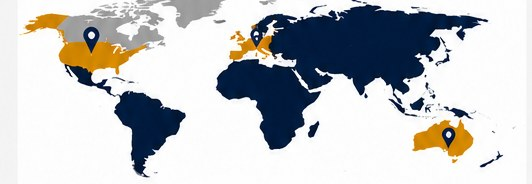
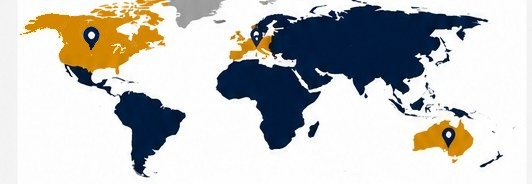
fix: client corrections, phase 1 (Correzioni A, C9, C13, D, E, G)
Content
- "A Catholic Christian global mission" everywhere (homepage, footer, About,
  Our Story); Faith value "Catholic Christian values"; Founder section
  "a global Catholic and Christian mission"
- Head office written uniformly as "Via delle Milizie 34, 00192 Rome, Italy",
  including footer, legal pages, FAQ and former "Vatican City / Rome" mentions
- Contact: Rome head office and email only; Australian PO Box, +61 numbers and
  AEST hours removed (hours/phone awaiting confirmation)
- Homepage map: Canada coloured like the other mission countries
- Copyright fixed to "© 2026 IICC Mission. All Rights Reserved."

Layout
- GiHero (11 Get Involved / Donate pages): logo and text in one block aligned
  to the container, so the logo no longer overlaps titles on wide screens;
  same fix for the Bakery of Hope hero
- FAQ answers use the full width (details no longer a 2-column grid)
- Pope Leo XIV / Pope Francis: quote no longer squeezes and covers the photo
- Wide screens: --gutter variable keeps text panels readable at 1440-2560px
  (Our Vision, Cardinal Pell, Founder Messages, fade photo bands)
- Advocacy: quote card no longer spills into the next section
- Dense card grids reflow to 3 per row when cards get too narrow
  (container query in ResCards, SupportLanding, PhotoCards, Ministry bands)
- Mobile: "OR" badge on the panel seam, single-column Hope Companion cards,
  tagline overlap on faith leader pages

QA
[…]

Changed region(s): [[0.0301, 0.0, 0.3308, 0.2989], [0.4812, 0.2174, 0.5113, 0.2989], [0.812, 0.7065, 0.8421, 0.7337]]

diff --git a/src/styles/global.css b/src/styles/global.css
@@ -63,6 +63,10 @@
    LAYOUT & SECTIONS
 ═══════════════════════════════════════════════ */
 @layer components {
+  /* side gutter outside the 1200px container on wide screens: added to the width of panels that
+     align their text with the container via padding-left, so the text keeps its intended width */
+  :root { --gutter: max(0px, calc((100vw - 1200px) / 2)); }
+
 
   /* Container */
   .wrap {
@@ -505,7 +509,7 @@
   .photo-band--fade { background: var(--color-navy); min-height: 320px; }
   .photo-band--fade .photo-band__bg { inset: 0 0 0 28%; }
   .photo-band--fade .photo-band__text {
-    width: min(560px, 46%);
+    width: calc(min(560px, 46%) + var(--gutter));
     background: linear-gradient(90deg, var(--color-navy) 72%, rgba(27,39,81,0));
     padding: 3.25rem 3rem 2.5rem max(1.5rem, calc((100vw - 1200px) / 2 + 1.5rem));
   }
@@ -1328,5 +1332,31 @@
   @media (max-width: 640px) {
     /* form fields laid out on a 6-column grid: one field per row on phones */
     [style*="grid-column:span"] { grid-column: 1 / -1 !important; }
+  }
+  @media (max-width: 900px) {
+    /* "OR" badge between two stacked panels: sits on the seam instead of over the second panel's title */
+    .hc-or { row-gap: 0 !important; }
+    .hc-or__badge { position: relative !important; left: auto !important; top: auto !important; transform: none !important; order: 1; justify-self: center; margin: -1.6rem 0; z-index: 1; }
+    .hc-or > :nth-child(2) { order: 2; padding-left: 1.5rem !important; }
+  }
+  @media (max-width: 640px) {
+    .hc-cards { grid-template-columns: 1fr !important; }
+  }
+  @media (min-width: 901px) and (max-width: 1280px) {
+    /* long words in narrow card titles wrap with a hyphen instead of splitting silently */
+    main h3, main h4 { hyphens: auto; -webkit-hyphens: auto; }
+  }
+  /* Card grids with 5+ cards adapt to the width of their own column, not the screen:
+     below ~170px per card they reflow to 3 per row (2 on very narrow columns). */
+  .rc { container-type: inline-size; width: 100%; } /* explicit width: size containment would otherwise shrink it inside grids */
+  @container (max-width: 1020px) { .rc-dense[data-n="6"], .rc-dense[data-n="7"], .rc-dense[data-n="8"] { grid-template-columns: repeat(3, minmax(0, 1fr)) !important; } }
+  @container (max-width: 860px) { .rc-dense[data-n="5"] { grid-template-columns: repeat(3, minmax(0, 1fr)) !important; } }
+  @container (max-width: 520px) { .rc-dense[data-n] { grid-template-columns: repeat(2, minmax(0, 1fr)) !important; } }
+  @media (max-width: 1200px) {
+    .au-progs { grid-template-columns: 1fr !important; }
+  }
+  @media (min-width: 901px) and (max-width: 1100px) {
+    /* dense inline grids on small laptops / landscape tablets */
+    .m-mid3 { grid-template-columns: repeat(3, minmax(0, 1fr)) !important; }
   }
 }

diff --git a/README.md b/README.md
@@ -82,6 +82,8 @@ Note sulla corrispondenza con i mockup:
   - Molte griglie hanno colonne inline (`style="grid-template-columns:…"`). Su mobile si ricompongono grazie alle regole in fondo a `global.css`: classi `camp-grid`, `m-cta`, `m-band`, `m-tab2`, `hero-quote`, `hero-logo`, `side-bg`, più selettori sugli attributi `style`. Una nuova griglia inline deve usare una di queste classi.
   - Le regole condivise vanno dentro `@layer components`: una regola fuori dai layer sovrascrive tutto il layer, compresi i `max-width` dei loghi.
   - Gli stili scoped di Astro non raggiungono gli svg di `Icon` né il contenuto passato via slot: usare `:global(...)`.
+- **Schermi larghi (1440–2560px):** per allineare un testo al contenitore da 1200px si usa `padding-left: calc((100vw - 1200px) / 2 …)`. Se l'elemento ha una larghezza fissa o in percentuale, quel padding gli toglie spazio e oltre i 1440px il testo si schiaccia o il logo sconfina. Va sommata la variabile `--gutter` alla larghezza (`width: calc(min(560px, 46%) + var(--gutter))`), oppure logo e testo vanno messi in un unico blocco (vedi `GiHero`). Controllare sempre anche a 1920px.
+- **Griglie fitte di schede:** `ResCards` usa una container query (classe `.rc`) e passa a 3 per riga quando ogni scheda scenderebbe sotto i 170px circa. Altre griglie fitte usano `m-mid3` tra 901 e 1100px.
 
 ## Controlli qualità (`scripts/qa/`)
 
@@ -91,12 +93,13 @@ Da eseguire dopo `npm run build`. I risultati finiscono in `.qa/`, che è ignora
 python3 scripts/qa/audit.py dist .qa/audit.json   # link interni, ancore, pagine orfane, form, contatti
 npm run preview -- --port 4400                     # in un altro terminale, per i due script seguenti
 node scripts/qa/mobile.mjs dist 390                # overflow orizzontale su tutte le pagine (anche 360/768/1280)
+node scripts/qa/overlap.mjs dist 1920              # testi o logo sovrapposti e parole spezzate a metà (provare 390/1024/1280/1440/1920)
 MAXH=1300 node scripts/qa/mshot.mjs nome /faq/ /news/   # screenshot mobile affiancati -> .qa/shots/nome.jpg
 ```
 
 `mshot.mjs` richiede Python con Pillow (variabile `PYTHON`). Per gli screenshot mobile usare questi script basati su CDP: `--window-size` di Chrome headless non scende sotto circa 500px.
 
-Ultimo esito: 0 link rotti, 0 ancore mancanti, 0 pagine orfane, 0 overflow a 360/390/430/768/1024/1280px.
+Ultimo esito: 0 link rotti, 0 ancore mancanti, 0 pagine orfane, 0 overflow da 360 a 1920px; nessuna sovrapposizione né parola spezzata da 768 a 1920px. `overlap.mjs` segnala anche alcuni falsi positivi noti: l'occhiello sopra i titoli degli hero ("Prison Ministry", "Support & Funding"), che è solo molto vicino al titolo. A 390px restano 43 parole lunghe spezzate per stare nello schermo, una situazione già presente prima e accettata dal cliente.
 
 ## In attesa dal cliente
 
